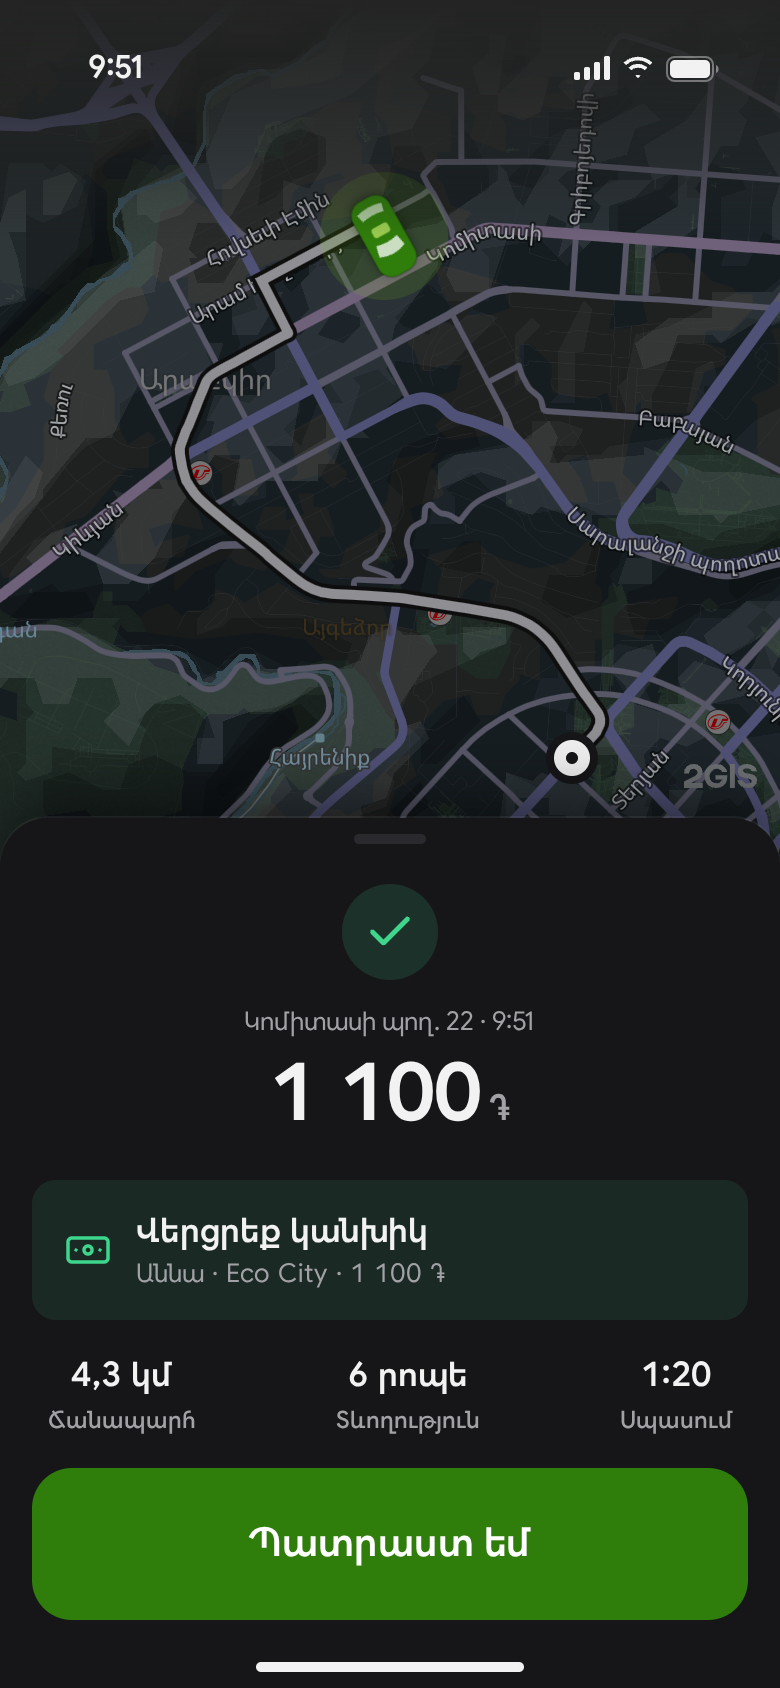
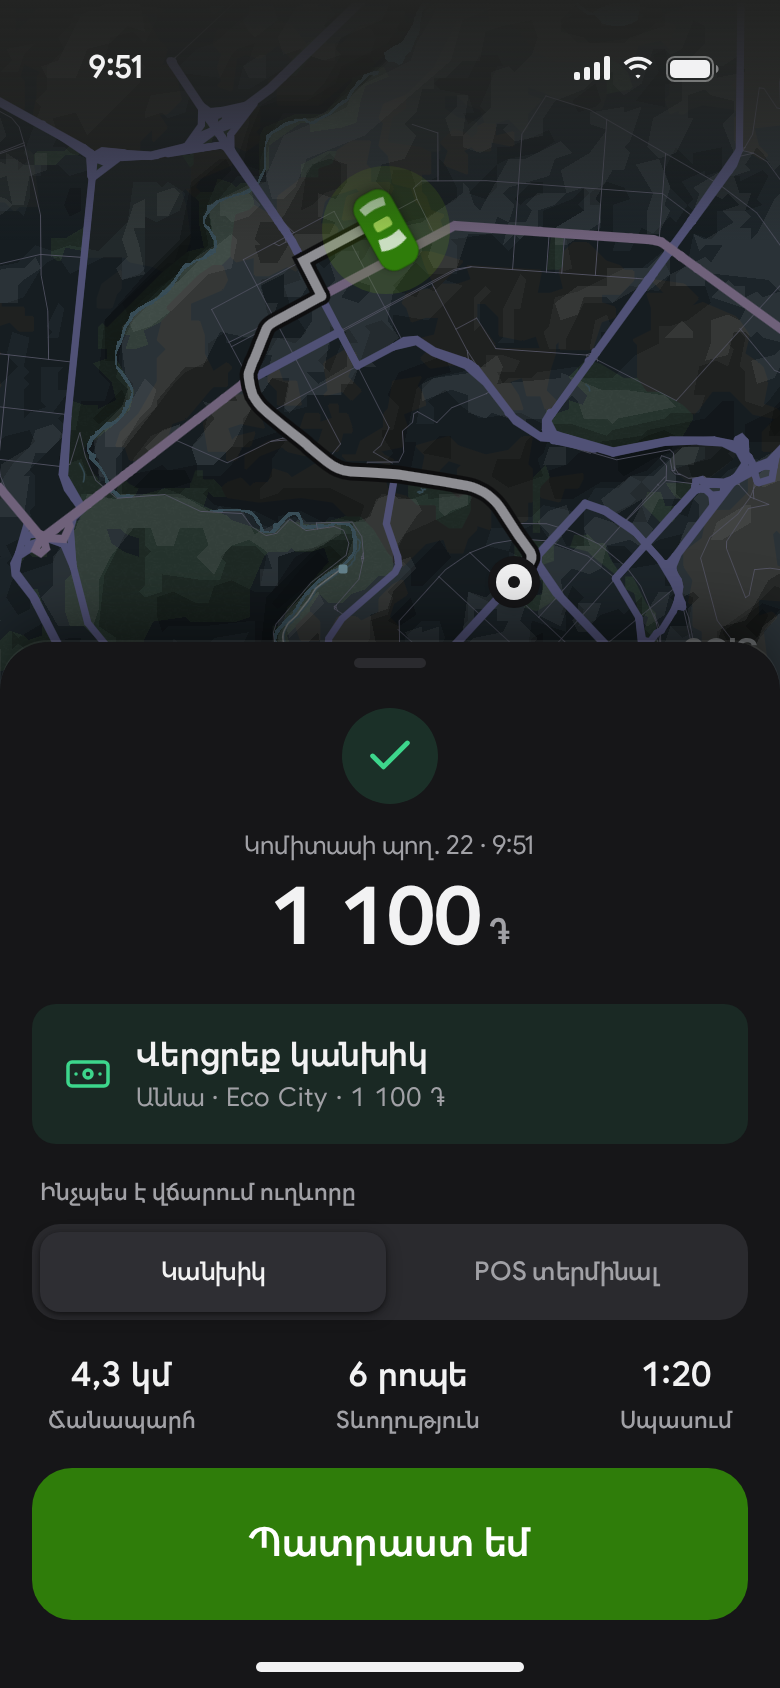
Preview: change payment — driver Cash → POS on Complete, rider Cash ↔ Card mid-ride

diff --git a/driver-ride.html b/driver-ride.html
@@ -65,6 +65,12 @@
   .cash svg { width: 24px; height: 24px; color: var(--ok); flex: none; }
   .cash .t1 { font: var(--t-headline); color: var(--ink); white-space: nowrap; }
   .cash .t2 { font: var(--t-secondary); color: var(--ink-2); white-space: nowrap; font-variant-numeric: tabular-nums; }
+  /* Change list 2026-10-15: on Complete the driver can switch Cash → POS terminal before «Պատրաստ եմ» (the fare is
+     final; only the method changes; the dispatcher and the receipt follow). The rider can switch Cash ↔ Card mid-ride. */
+  .cash.pos { background: var(--info-soft); } .cash.pos svg { color: var(--info); }
+  .cash.card { background: var(--surface-2); } .cash.card svg { color: var(--ink-2); }
+  .paylbl { font: var(--t-caption); color: var(--ink-2); margin: 0 0 var(--s2) var(--s1); }
+  .done-pay { margin-bottom: var(--s4); }
   .facts { display: flex; justify-content: space-between; padding: 0 var(--s2) var(--s4); }
   .facts div { display: flex; flex-direction: column; align-items: center; gap: 2px; }
   .facts b { font: var(--t-headline); color: var(--ink); font-variant-numeric: tabular-nums; white-space: nowrap; }
@@ -156,14 +162,14 @@
 
   <div class="offstrip" role="status" data-s="offline"><i data-lucide="cloud-off"></i>Կապ չկա · կուղարկենք կապի դեպքում<span class="tm">2:14</span></div>
 
-  <div class="guide" data-s="enroute inprogress company-inprogress chat destchanged sos" role="region" aria-label="Ուղղորդում">
+  <div class="guide" data-s="enroute inprogress company-inprogress chat destchanged sos paychanged" role="region" aria-label="Ուղղորդում">
     <span class="turn"><i data-lucide="corner-up-right"></i></span>
-    <div><div class="dist"><span data-s="enroute chat">300</span><span data-s="inprogress company-inprogress sos">650</span><span data-s="destchanged">400</span><small>մ</small></div>
-      <div class="st" data-s="enroute chat">Թումանյան փ.</div><div class="st" data-s="inprogress company-inprogress sos destchanged">Կոմիտասի պող.</div></div>
+    <div><div class="dist"><span data-s="enroute chat">300</span><span data-s="inprogress company-inprogress sos paychanged">650</span><span data-s="destchanged">400</span><small>մ</small></div>
+      <div class="st" data-s="enroute chat">Թումանյան փ.</div><div class="st" data-s="inprogress company-inprogress sos destchanged paychanged">Կոմիտասի պող.</div></div>
     <div class="then"><i data-lucide="corner-up-left"></i>ապա</div>
   </div>
 
-  <button class="fab lg" id="fab" style="right:16px" aria-label="Ընդհանուր տեսք" data-s="enroute inprogress assigned offline arrived noshow noshowsent company-inprogress chat destchanged sos"><i data-lucide="locate-fixed"></i></button>
+  <button class="fab lg" id="fab" style="right:16px" aria-label="Ընդհանուր տեսք" data-s="enroute inprogress assigned offline arrived noshow noshowsent company-inprogress chat destchanged sos paychanged"><i data-lucide="locate-fixed"></i></button>
 
   <!-- ── assigned: on the way to start (tap "On my way") ── -->
   <section class="sheet" data-s="assigned" data-sheet>
@@ -234,6 +240,24 @@
     </div>
   </section>
 
+  <!-- ── in progress, the rider switched Cash → Card in the app (change list 2026-10-15) ── -->
+  <section class="sheet" data-s="paychanged" data-sheet>
+    <div class="grabber"></div>
+    <div class="notice info" role="status"><i data-lucide="wallet"></i><div><b>Ուղևորը կվճարի քարտով</b>Կանխիկ մի վերցրեք · 9:48</div></div>
+    <div class="head" style="margin-top:var(--s3)">
+      <div><div class="eyebrow"><span class="d"></span>3 րոպե · 2,1 կմ · 9:51</div><div class="addr">Կոմիտասի պող. 22</div></div>
+      <div class="big" style="font:var(--t-title)">1 100 ֏</div>
+    </div>
+    <div class="tools" style="justify-content:flex-start;gap:var(--s4)">
+      <button class="tool"><span class="b"><i data-lucide="phone"></i></span>Զանգել</button>
+      <button class="tool"><span class="b"><i data-lucide="headset"></i></span>Դիսպետչեր</button>
+    </div>
+    <div class="slide" role="slider" aria-label="Ավարտել" aria-valuemin="0" aria-valuemax="100" aria-valuenow="0" tabindex="0">
+      <span class="knob"><i data-lucide="flag"></i></span>Ավարտել
+      <span class="hint" aria-hidden="true"><i data-lucide="chevron-right"></i><i data-lucide="chevron-right"></i></span>
+    </div>
+  </section>
+
   <!-- ── destchanged (D22): the dispatcher moved the drop mid-ride; the price follows the new route (drawn ahead) ── -->
   <section class="sheet" data-s="destchanged" data-sheet>
     <div class="grabber"></div>
@@ -262,6 +286,34 @@
       <div class="big">1 100<small>֏</small></div>
     </div>
     <div class="cash"><i data-lucide="banknote"></i><div><div class="t1">Վերցրեք կանխիկ</div><div class="t2">Աննա · Eco City · 1 100 ֏</div></div></div>
+    <div class="done-pay"><div class="paylbl">Ինչպես է վճարում ուղևորը</div><div class="seg" role="radiogroup" aria-label="Վճարման եղանակ"><button role="radio" aria-pressed="true" aria-checked="true">Կանխիկ</button><button role="radio" aria-pressed="false" aria-checked="false">POS տերմինալ</button></div></div>
+    <div class="facts"><div><b>4,3 կմ</b><span>Ճանապարհ</span></div><div><b>6 րոպե</b><span>Տևողություն</span></div><div><b>1:20</b><span>Սպասում</span></div></div>
+    <button class="go">Պատրաստ եմ</button>
+  </section>
+
+  <!-- ── complete, switched to POS (change list 2026-10-15): the hero says so; «Պատրաստ եմ» records the method ── -->
+  <section class="sheet" data-s="done-pos" data-sheet>
+    <div class="grabber"></div>
+    <div class="done-top">
+      <span class="ok"><i data-lucide="check"></i></span>
+      <div class="l">Կոմիտասի պող. 22 · 9:51</div>
+      <div class="big">1 100<small>֏</small></div>
+    </div>
+    <div class="cash pos"><i data-lucide="credit-card"></i><div><div class="t1">Վճարում՝ POS տերմինալով</div><div class="t2">1 100 ֏ · կանխիկ մի վերցրեք</div></div></div>
+    <div class="done-pay"><div class="paylbl">Ինչպես է վճարում ուղևորը</div><div class="seg" role="radiogroup" aria-label="Վճարման եղանակ"><button role="radio" aria-pressed="false" aria-checked="false">Կանխիկ</button><button role="radio" aria-pressed="true" aria-checked="true">POS տերմինալ</button></div></div>
+    <div class="facts"><div><b>4,3 կմ</b><span>Ճանապարհ</span></div><div><b>6 րոպե</b><span>Տևողություն</span></div><div><b>1:20</b><span>Սպասում</span></div></div>
+    <button class="go">Պատրաստ եմ</button>
+  </section>
+
+  <!-- ── complete, the rider switched to card mid-ride: nothing to collect, no switch ── -->
+  <section class="sheet" data-s="done-card" data-sheet>
+    <div class="grabber"></div>
+    <div class="done-top">
+      <span class="ok"><i data-lucide="check"></i></span>
+      <div class="l">Կոմիտասի պող. 22 · 9:51</div>
+      <div class="big">1 100<small>֏</small></div>
+    </div>
+    <div class="cash card"><i data-lucide="wallet"></i><div><div class="t1">Վճարված է քարտով</div><div class="t2">ոչինչ մի վերցրեք · Աննա · Eco City</div></div></div>
     <div class="facts"><div><b>4,3 կմ</b><span>Ճանապարհ</span></div><div><b>6 րոպե</b><span>Տևողություն</span></div><div><b>1:20</b><span>Սպասում</span></div></div>
     <button class="go">Պատրաստ եմ</button>
   </section>
@@ -377,11 +429,11 @@
 <script>
   const st0 = new URLSearchParams(location.search).get('state') || 'assigned'
   /* The clock follows ECO.RIDE: assigned 9:41, at the pickup 9:45, riding 9:47, dropped 9:51. */
-  statusBar(document.getElementById('s'), { enroute: '9:43', arrived: '9:45', noshow: '9:50', noshowsent: '9:51', offline: '9:45', call: '9:45', cancel: '9:45', inprogress: '9:47', done: '9:51', chat: '9:43', 'company-inprogress': '9:47', 'company-done': '9:51', changed: '9:43', destchanged: '9:48', sos: '9:48' }[st0] || '9:41')
+  statusBar(document.getElementById('s'), { enroute: '9:43', arrived: '9:45', noshow: '9:50', noshowsent: '9:51', offline: '9:45', call: '9:45', cancel: '9:45', inprogress: '9:47', done: '9:51', 'done-pos': '9:51', 'done-card': '9:51', paychanged: '9:48', chat: '9:43', 'company-inprogress': '9:47', 'company-done': '9:51', changed: '9:43', destchanged: '9:48', sos: '9:48' }[st0] || '9:41')
   const st = D.init([
     ['assigned', 'Assigned · On my way'], ['enroute', 'En route · Arrived (guidance)'], ['arrived', 'Arrived · wait, slide Start'],
     ['noshow', 'No-show available (5:00+)'], ['noshowsent', 'No-show raised'], ['inprogress', 'In progress · slide Complete'],
-    ['done', 'Complete · collect cash'], ['forced', 'Forced acknowledgement'], ['offline', 'Offline · actions will sync'],
+    ['done', 'Complete · collect cash'], ['done-pos', 'Complete · switched to POS terminal'], ['paychanged', 'Rider switched to card (in ride)'], ['done-card', 'Complete · paid by card'], ['forced', 'Forced acknowledgement'], ['offline', 'Offline · actions will sync'],
     ['call', 'Call sheet'], ['cancel', 'Cancel or give back'], ['chat', 'Chat · quick replies (ahead)'],
     ['company-inprogress', 'Company ride · in progress'], ['company-done', 'Company ride · complete, collect nothing'],
     ['changed', 'Order cancelled (mid-approach)'],
@@ -393,7 +445,7 @@
   const A = ROUTES.driverToPickup.pts, B = ROUTES.pickupToDrop.pts
   const bear = (p, q) => Math.atan2((q[1] - p[1]) * Math.cos(p[0] * Math.PI / 180), q[0] - p[0]) * 180 / Math.PI
   const car = (pts, i) => `<div class="me">${carTop(bear(pts[i], pts[Math.min(i + 2, pts.length - 1)]), 'var(--brand)', 'rgb(255 255 255 / .75)')}</div>`
-  const base = ['call', 'cancel'].includes(st) ? 'arrived' : st === 'chat' ? 'enroute' : { 'company-inprogress': 'inprogress', 'company-done': 'done', sos: 'inprogress' }[st] || st
+  const base = ['call', 'cancel'].includes(st) ? 'arrived' : st === 'chat' ? 'enroute' : { 'company-inprogress': 'inprogress', 'company-done': 'done', 'done-pos': 'done', 'done-card': 'done', paychanged: 'inprogress', sos: 'inprogress' }[st] || st
   const main = document.querySelector('.sheet[data-sheet]:not([hidden]):not(.top)') || (st === 'sos' ? document.querySelector('.sheet[data-s~="inprogress"]') : document.querySelector('.sheet[data-s~="arrived"]'))
   if (st === 'sos') main.hidden = false
   if (['call', 'cancel', 'chat', 'sos'].includes(st)) { main.hidden = false; for (const el of [main, document.getElementById('fab'), document.getElementById('map'), ...document.querySelectorAll('.guide:not([hidden])')]) { el.dataset.overlay = ''; el.setAttribute('aria-hidden', 'true') } }

diff --git a/rider-ride.html b/rider-ride.html
@@ -53,6 +53,15 @@
   .trip .t2 { font: var(--t-secondary); color: var(--ink-2); white-space: nowrap; }
   .sq { width: 12px; height: 12px; border-radius: 3px; background: var(--ink); flex: none; }
   .mini { display: flex; align-items: center; gap: var(--s3); min-height: 56px; }
+  /* Change list 2026-10-15: the rider changes Cash ↔ Card during the ride, until the driver completes it. */
+  .payrow { display: flex; align-items: center; gap: var(--s3); width: 100%; min-height: 48px; padding: 0 var(--s1); border-top: 1px solid var(--line); text-align: left; }
+  .payrow svg { width: 20px; height: 20px; color: var(--ink-2); flex: none; } .payrow .cashc { color: var(--ok); }
+  .payrow .t { flex: 1; font: var(--t-body); color: var(--ink); white-space: nowrap; font-variant-numeric: tabular-nums; }
+  .payrow .ch { font: var(--t-body-strong); color: var(--brand-text, var(--ink)); white-space: nowrap; }
+  .paylist .choice { min-height: 60px; }
+  .paylist .choice .ico { width: 36px; height: 36px; border-radius: 10px; background: var(--surface-2); display: grid; place-items: center; flex: none; }
+  .paylist .choice .ico svg { width: 20px; height: 20px; } .paylist .choice .ico.cashc { color: var(--ok); }
+  .paylist .choice .t2 { display: block; font: var(--t-caption); color: var(--ink-2); }
   .mini .nm { flex: 1; font: var(--t-body-strong); color: var(--ink); white-space: nowrap; }
 
   /* modals */
@@ -167,6 +176,7 @@
       ${o.tags ? `<div class="tags">${o.tags}</div>` : ''}${o.cap ? `<div class="cap">${o.cap}</div>` : ''}
       ${identity(o.d)}${driver(o.d)}${acts(A_WAIT)}${o.after || ''}</section>`
   const preTag = (t) => `<span class="tagp pre">${R.i('calendar-clock')}Նախնական պատվեր · ${t}-ին</span>`
+  const payrow = (card) => `<button class="payrow" aria-label="Փոխել վճարման եղանակը">${card ? R.i('wallet') : `<span class="cashc" style="display:contents">${R.i('banknote')}</span>`}<span class="t">${card ? 'Քարտ ·· 4242' : 'Կանխիկ'} · ${ECO.amd(1100)}</span><span class="ch">Փոխել</span></button>`
   const notice = (body, icon = 'info') => `<div class="notice" role="status">${R.i(icon)}<span>${body}</span></div>`
 
   /* Approach map: the driver's dotted line to the pickup, our car on it, the pickup pin. frac = how far along the car is. */
@@ -223,6 +233,7 @@
             <div class="head2"><div><div class="eta">${RD.riding.left} րոպե</div><div class="status">Ճանապարհին · ժամանում <b>${RD.dropAt}</b></div></div></div>
             <div class="trip"><span class="sq"></span><span class="to"><span class="t1">${RD.drop}</span><span class="t2">${ECO.km(2.8)} մնաց</span></span></div>
             <div class="mini">${R.car('city', 64, 32, '')}${R.plate(DV.plate)}<span class="nm">${DV.first}</span></div>
+            ${payrow(false)}
             ${acts([['share-2', 'Կիսվել', 'on'], ['phone', 'Զանգել'], ['message-circle', 'Գրել'], ['life-buoy', 'Օգնություն']])}</section>`,
         map: (s) => {
           const k = at(T, .35), rest = T.slice(k.i)
@@ -230,6 +241,35 @@
           drawRoute(m, rest, { weight: 5 })
           htmlMarker(m, DROP, '<div class="pin-b"></div>', [18, 18])
           htmlMarker(m, DROP, `<div class="maptag" data-overlay style="position:absolute;left:0;top:-22px;transform:translate(-50%,-100%)"><b>${RD.dropAt}</b>Կոմիտաս</div>`, [0, 0], [0, 0])
+          htmlMarker(m, k.ll, carTop(k.deg), [18, 34])
+        } },
+
+      { id: 'pay-change', group: 'In the ride', label: 'Change payment', note: 'Change list 2026-10-15: «Փոխել» on the ride card opens the payment sheet mid-ride. Cash or a saved card; allowed until the driver completes the ride (then the row locks). The driver sees the change at once (driver-ride#paychanged). Company rides do not show the row. Card payments are drawn ahead',
+        time: '9:48', ...modal('Վճարման եղանակ', `<div class="paylist" role="radiogroup" aria-label="Վճարման եղանակ">
+          <button class="choice" role="radio" aria-checked="false"><span class="ico cashc">${R.i('banknote')}</span><span class="t">Կանխիկ<span class="t2">վարորդին՝ ավարտին</span></span><span class="radio"></span></button>
+          <div class="divider" style="margin-left:48px"></div>
+          <button class="choice" role="radio" aria-checked="true"><span class="ico">${R.i('wallet')}</span><span class="t">Քարտ ·· 4242<span class="t2">կգանձվի ավարտին</span></span><span class="radio"></span></button>
+          <div class="divider" style="margin-left:48px"></div>
+          <button class="choice"><span class="ico">${R.i('plus')}</span><span class="t">Ավելացնել քարտ</span></button></div>
+          <div class="inline-note" style="margin:var(--s3) 0">${R.i('info')}<span>Կարող եք փոխել մինչև ուղևորության ավարտը · վարորդը կտեսնի անմիջապես</span></div>
+          <button class="btn btn-brand">Պահել</button>`, 'riding'),
+        map: (s) => { const k = at(T, .45), rest = T.slice(k.i); const m = R.map(s, { fit: rest, padTL: [56, 96], padBR: [56, s.querySelector('#sheet').offsetHeight + 56] }); drawRoute(m, rest, { weight: 5 }); htmlMarker(m, DROP, '<div class="pin-b"></div>', [18, 18]); htmlMarker(m, k.ll, carTop(k.deg), [18, 34]) } },
+      { id: 'riding-card', group: 'In the ride', label: 'Riding · paid by card', note: 'After the change: the row reads the card, one neutral line confirms the driver was told. The fare is unchanged',
+        time: '9:48', html: () => `<div class="map" id="map" aria-label="Քարտեզ"></div>
+          <button class="fab" style="top:62px;left:16px" aria-label="Հետ">${R.i('chevron-down')}</button>
+          <button class="fab" style="top:62px;right:16px" aria-label="Անվտանգություն">${R.i('shield')}</button>
+          <section class="sheet r" id="sheet"><div class="grabber"></div>
+            ${notice('<b>Վճարումը՝ քարտով</b>Վարորդը տեղեկացված է', 'circle-check')}
+            <div class="head2" style="margin-top:var(--s3)"><div><div class="eta">3 րոպե</div><div class="status">Ճանապարհին · ժամանում <b>${RD.dropAt}</b></div></div></div>
+            <div class="trip"><span class="sq"></span><span class="to"><span class="t1">${RD.drop}</span><span class="t2">${ECO.km(2.1)} մնաց</span></span></div>
+            <div class="mini">${R.car('city', 64, 32, '')}${R.plate(DV.plate)}<span class="nm">${DV.first}</span></div>
+            ${payrow(true)}
+            ${acts([['share-2', 'Կիսվել', 'on'], ['phone', 'Զանգել'], ['message-circle', 'Գրել'], ['life-buoy', 'Օգնություն']])}</section>`,
+        map: (s) => {
+          const k = at(T, .5), rest = T.slice(k.i)
+          const m = R.map(s, { fit: rest, padTL: [56, 156], padBR: [56, s.querySelector('#sheet').offsetHeight + 56] })
+          drawRoute(m, rest, { weight: 5 })
+          htmlMarker(m, DROP, '<div class="pin-b"></div>', [18, 18])
           htmlMarker(m, k.ll, carTop(k.deg), [18, 34])
         } },
 

diff --git a/driver-index.html b/driver-index.html
@@ -45,7 +45,7 @@
     ['driver-home-states', [["away", "Away (auto, missed offers)"], ["offline", "Offline (off the line)"], ["lost", "Connection lost"], ["active", "Active ride card"], ["demo", "Practice ride running"], ["noshift", "No open shift"], ["location", "Location «while using» warning"], ["held", "Held for a pre-order (T−30)"], ["nomap", "Map unavailable"], ["newoffer", "Pending offer card (left the offer)"], ["docexpiry", "Insurance expiring (banner, 11 days)"], ["insurance", "Insurance expired · orders stopped · upload"], ["insurance-sent", "New insurance sent · waiting for approval"]]],
     ['driver-preorders', [["list", "My pre-orders"], ["list-end", "Scrolled · Transfer card + flight"], ["details", "Details · before T−30"], ["startable", "Details · start (T−30)"], ["starting", "Starting…"], ["started", "Started → en route"], ["refused", "Start refused (offline)"], ["noconn", "Start · no connection"], ["earlier", "Blocked · earlier booking"], ["cantmake", "«Չեմ հասցնի» · request sent"], ["cantmake-released", "«Չեմ հասցնի» · dispatcher took it"], ["cantmake-kept", "«Չեմ հասցնի» · asked to keep it"], ["reminder", "Reminder (T−25) + start"], ["activated", "Activated by fleet (T−15)"], ["empty", "Empty"], ["offline", "Offline (cached)"], ["error", "Error"], ["onride", "Start blocked · on a ride"], ["balance-partner", "Start blocked · balance (partner)"], ["noshift", "Start blocked · no shift"], ["changed", "Order cancelled (mid-approach)"], ["blacklisted", "Start refused · rider blacklisted"], ["gone", "Booking taken away by dispatcher"], ["company", "Company-paid pre-order"], ["transfer", "Airport transfer · flight FZ 715, name sign"]]],
     ['driver-offer-states', [["taken", "Taken by another driver"], ["expired", "Expired (no answer)"], ["decline", "Decline: one tap on a reason (ticking)"], ["declined", "Declined, back on the line"], ["company", "Company ride (paid by company)"], ["preorder-now", "Pre-order started now · first offer to its driver"], ["preorder-any", "Pre-order due · offered to any Eco City driver"], ["lock-android", "Locked screen · Android full-screen"], ["lock-ios", "Locked screen · iOS Time-Sensitive"]]],
-    ['driver-ride', [["assigned", "Assigned · On my way"], ["enroute", "En route · Arrived (guidance)"], ["arrived", "Arrived · wait, slide Start"], ["noshow", "No-show available (5:00+)"], ["noshowsent", "No-show raised"], ["inprogress", "In progress · slide Complete"], ["done", "Complete · collect cash"], ["forced", "Forced acknowledgement"], ["offline", "Offline · actions will sync"], ["call", "Call sheet"], ["cancel", "Cancel or give back (reasons)"], ["chat", "Chat · quick replies (ahead)"], ["company-inprogress", "Company ride · in progress"], ["company-done", "Company ride · complete, collect nothing"], ["changed", "Order cancelled (mid-approach)"], ["destchanged", "Destination changed by dispatcher (re-priced)"], ["sos", "SOS · alert dispatcher / 112 (ahead)"]]],
+    ['driver-ride', [["assigned", "Assigned · On my way"], ["enroute", "En route · Arrived (guidance)"], ["arrived", "Arrived · wait, slide Start"], ["noshow", "No-show available (5:00+)"], ["noshowsent", "No-show raised"], ["inprogress", "In progress · slide Complete"], ["done", "Complete · collect cash"], ["done-pos", "Complete · switched to POS terminal"], ["paychanged", "Rider switched to card (in ride)"], ["done-card", "Complete · paid by card"], ["forced", "Forced acknowledgement"], ["offline", "Offline · actions will sync"], ["call", "Call sheet"], ["cancel", "Cancel or give back (reasons)"], ["chat", "Chat · quick replies (ahead)"], ["company-inprogress", "Company ride · in progress"], ["company-done", "Company ride · complete, collect nothing"], ["changed", "Order cancelled (mid-approach)"], ["destchanged", "Destination changed by dispatcher (re-priced)"], ["sos", "SOS · alert dispatcher / 112 (ahead)"]]],
     ['driver-inbox', [["list", "Notifications · 3 unread"], ["detail", "Opened · insurance reminder"], ["empty", "Empty"]]],
     ['driver-earnings', [["today", "Today · cash/company split"], ["week", "Week · daily bars"], ["month", "Month so far (date filter)"], ["picker", "Choose days · range sheet"], ["range", "Chosen range 1–7 Oct"], ["rides", "Rides by day (no balance: fleet)"], ["unavailable", "Unavailable · retry"]]],
     ['driver-account', [["main", "Account"], ["docs", "Documents · expiry"], ["language", "Language"], ["theme", "Theme · incl. Sun"], ["demo", "Practice ride"], ["demorunning", "Practice ride · running"], ["delete", "Delete account"], ["deleterequested", "Deletion requested"], ["signout", "Sign out · blocked by shift"], ["deleteblocked", "Delete blocked · open ride"], ["help", "Help · dispatcher, FAQ, legal"], ["legal", "Privacy policy"], ["update", "Update required"], ["diag", "Shift diagnostics"], ["rating", "Rating + past rides"]]],

diff --git a/rider-index.html b/rider-index.html
@@ -60,7 +60,7 @@
     ['rider-book', 'When, late evening', 'Today has no slots; 7-day limit', 'when-late'],
     ['rider-searching', 'Finding a car', 'Calm search, no cars, cancel', 'searching'],
     ['rider-searching', 'No car yet', 'Call the dispatcher; activated pre-order variant', 'no-cars'],
-    ['rider-ride', 'Driver and ride', 'Assigned, arriving, arrived, riding, cancel', 'assigned'],
+    ['rider-ride', 'Driver and ride', 'Assigned, arriving, arrived, riding, change payment (cash ↔ card), cancel', 'assigned'],
     ['rider-ride', 'Ride interrupted', 'Cancelled by them, driver gave it back, cancel failed', 'cancelled-by'],
     ['rider-ride', 'Company ride', '«Վճարում է ընկերությունը» on the driver card', 'company'],
     ['rider-ride', 'Pre-order becomes a ride', 'Activated booking, early start, company → personal', 'preorder'],
